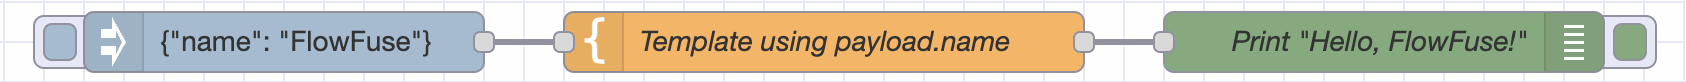
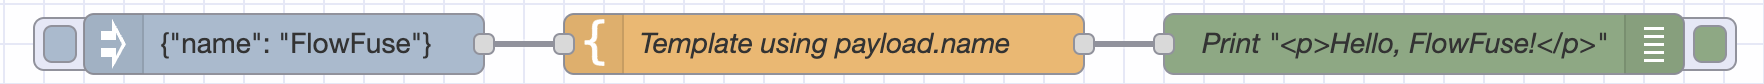
fix: Update wrong text and flow

Changed region(s): [[0.0, 0.122, 0.987, 0.9024]]

diff --git a/src/_includes/core-nodes/template-use-case.md b/src/_includes/core-nodes/template-use-case.md
@@ -18,7 +18,7 @@ For example, you can define a template like this: `<p>Hello {{payload.name}}!</p
 ![HTML Template with Mustache](./images/template-mustache.png "HTML template with Mustache")
 
 ```json
-[{"id":"97d742eec1cb7dbf","type":"inject","z":"a6b7ede2e13fcbdf","name":"","props":[{"p":"payload"},{"p":"topic","vt":"str"}],"repeat":"","crontab":"","once":false,"onceDelay":0.1,"topic":"","payload":"{\"name\": \"FlowFuse\"}","payloadType":"json","x":180,"y":60,"wires":[["c85d70b41f374f02"]]},{"id":"c85d70b41f374f02","type":"template","z":"a6b7ede2e13fcbdf","name":"Template using payload.name","field":"payload","fieldType":"msg","format":"handlebars","syntax":"mustache","template":"Hello {{payload.name}}!","output":"str","x":450,"y":60,"wires":[["6df7215459dfb240"]]},{"id":"6df7215459dfb240","type":"debug","z":"a6b7ede2e13fcbdf","name":"Print \"Hello, FlowFuse!\"","active":true,"tosidebar":true,"console":false,"tostatus":false,"complete":"payload","targetType":"msg","statusVal":"","statusType":"auto","x":730,"y":60,"wires":[]}]
+[{"id":"97d742eec1cb7dbf","type":"inject","z":"a6b7ede2e13fcbdf","name":"","props":[{"p":"payload"},{"p":"topic","vt":"str"}],"repeat":"","crontab":"","once":false,"onceDelay":0.1,"topic":"","payload":"{\"name\": \"FlowFuse\"}","payloadType":"json","x":180,"y":60,"wires":[["c85d70b41f374f02"]]},{"id":"c85d70b41f374f02","type":"template","z":"a6b7ede2e13fcbdf","name":"Template using payload.name","field":"payload","fieldType":"msg","format":"handlebars","syntax":"mustache","template":"<p>Hello {{payload.name}}!</p>","output":"str","x":450,"y":60,"wires":[["6df7215459dfb240"]]},{"id":"6df7215459dfb240","type":"debug","z":"a6b7ede2e13fcbdf","name":"Print \"<p>Hello, FlowFuse!</p>\"","active":true,"tosidebar":true,"console":false,"tostatus":false,"complete":"payload","targetType":"msg","statusVal":"","statusType":"auto","x":750,"y":60,"wires":[]}]
 ```
 
 This example will output `<p>Hello FlowFuse!</p>`.
